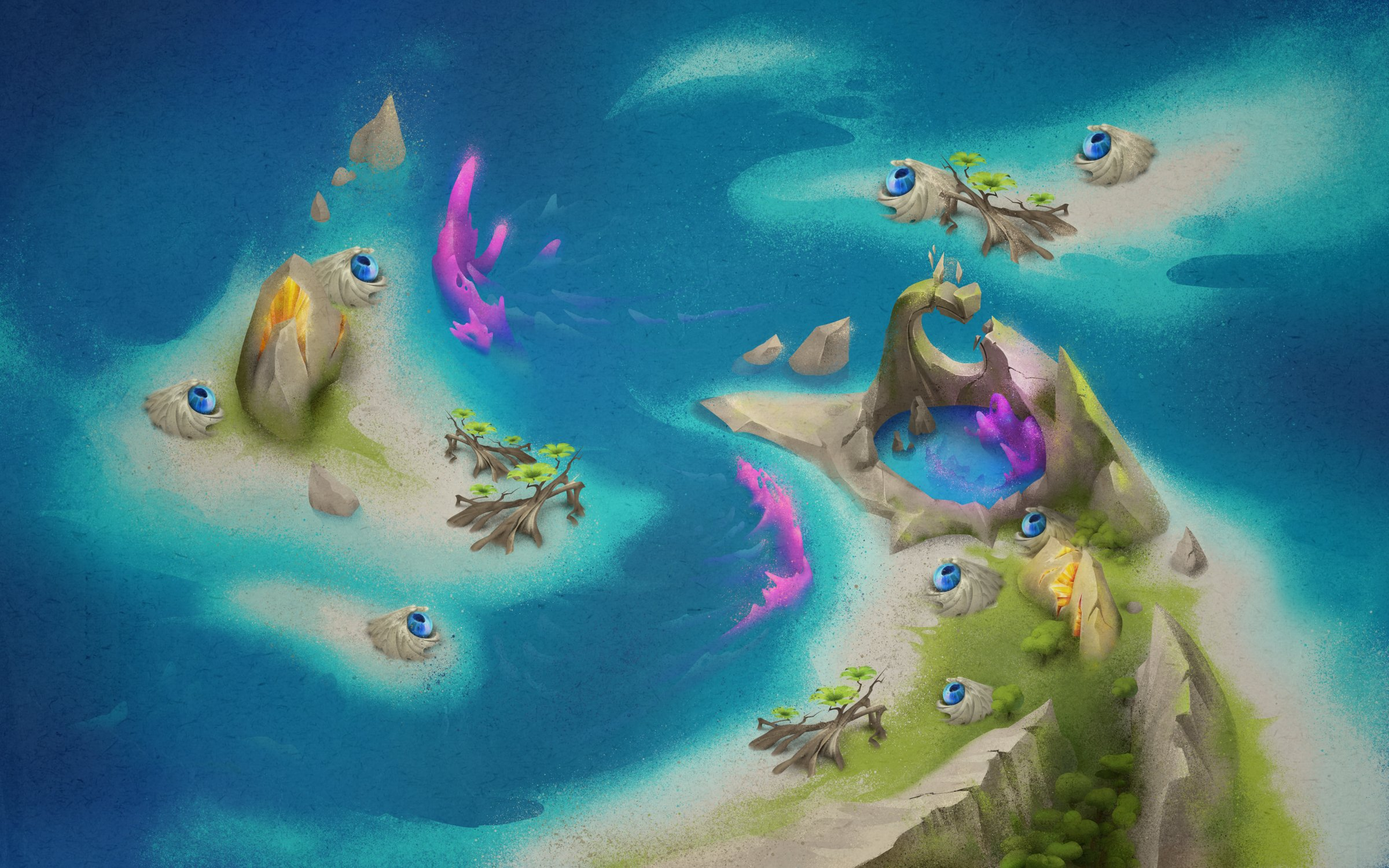
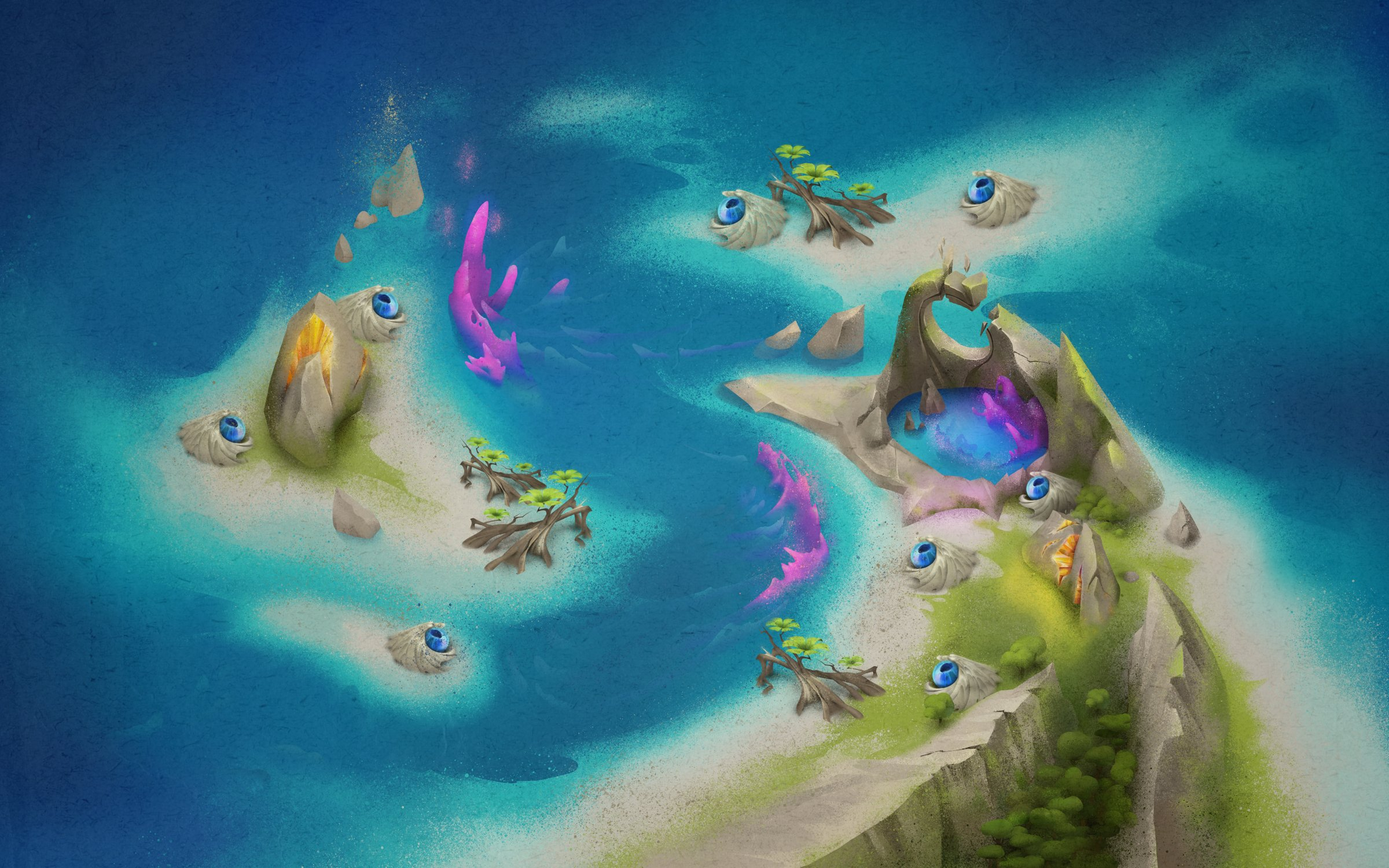
added NFT Panel to homescreen and updated position of Azure Reef Hives

diff --git a/src/app/Play/page.tsx b/src/app/Play/page.tsx
@@ -13,6 +13,9 @@ import { Typography } from "@mui/material";
 import HexagonSpinner from "@/components/Loaders/HexagonSpinner/HexagonSpinner";
 import Image from "next/image";
 import { logger } from "@/utils/logger";
+import VerifyPartnerNftButton from "@/components/Buttons/VerifyPartnerNFT/VerifyPartnerNFT";
+import LeftPanel from "@/components/Layouts/GameLayout/LeftPanel/LeftPanel";
+
 const Play: React.FC = () => {
   const { isMuted, isMusicMuted } = useSound();
   const [music, setMusic] = useState<HTMLAudioElement | null>(null);
@@ -158,13 +161,14 @@ const Play: React.FC = () => {
         text="Molten Ridge"
         navigate={navigate}
       />
-            <CombinedLocationMarker
+      <CombinedLocationMarker
         left="20%"
         top="45%"
         link="Play/Location/AzureReef"
         text="Azure Reef"
         navigate={navigate}
       />
+      <LeftPanel />
       <BottomBar />
     </GameLayout>
   );

diff --git a/src/app/Play/Location/AzureReef/page.tsx b/src/app/Play/Location/AzureReef/page.tsx
@@ -19,7 +19,6 @@ import { useHives } from "@/context/HivesContext"; // Ensure correct import path
 import { HiveHatchlingInfo } from "@/types/Environment";
 import { logger } from "@/utils/logger";
 import { useEnvironment } from "@/context/EnvironmentContext";
-import HiveRestrictionsInfo from "./components/HiveRestrictionsInfo";
 import LeftPanel from "@/components/Layouts/GameLayout/LeftPanel/LeftPanel";
 
 const AzureReef: React.FC = () => {
